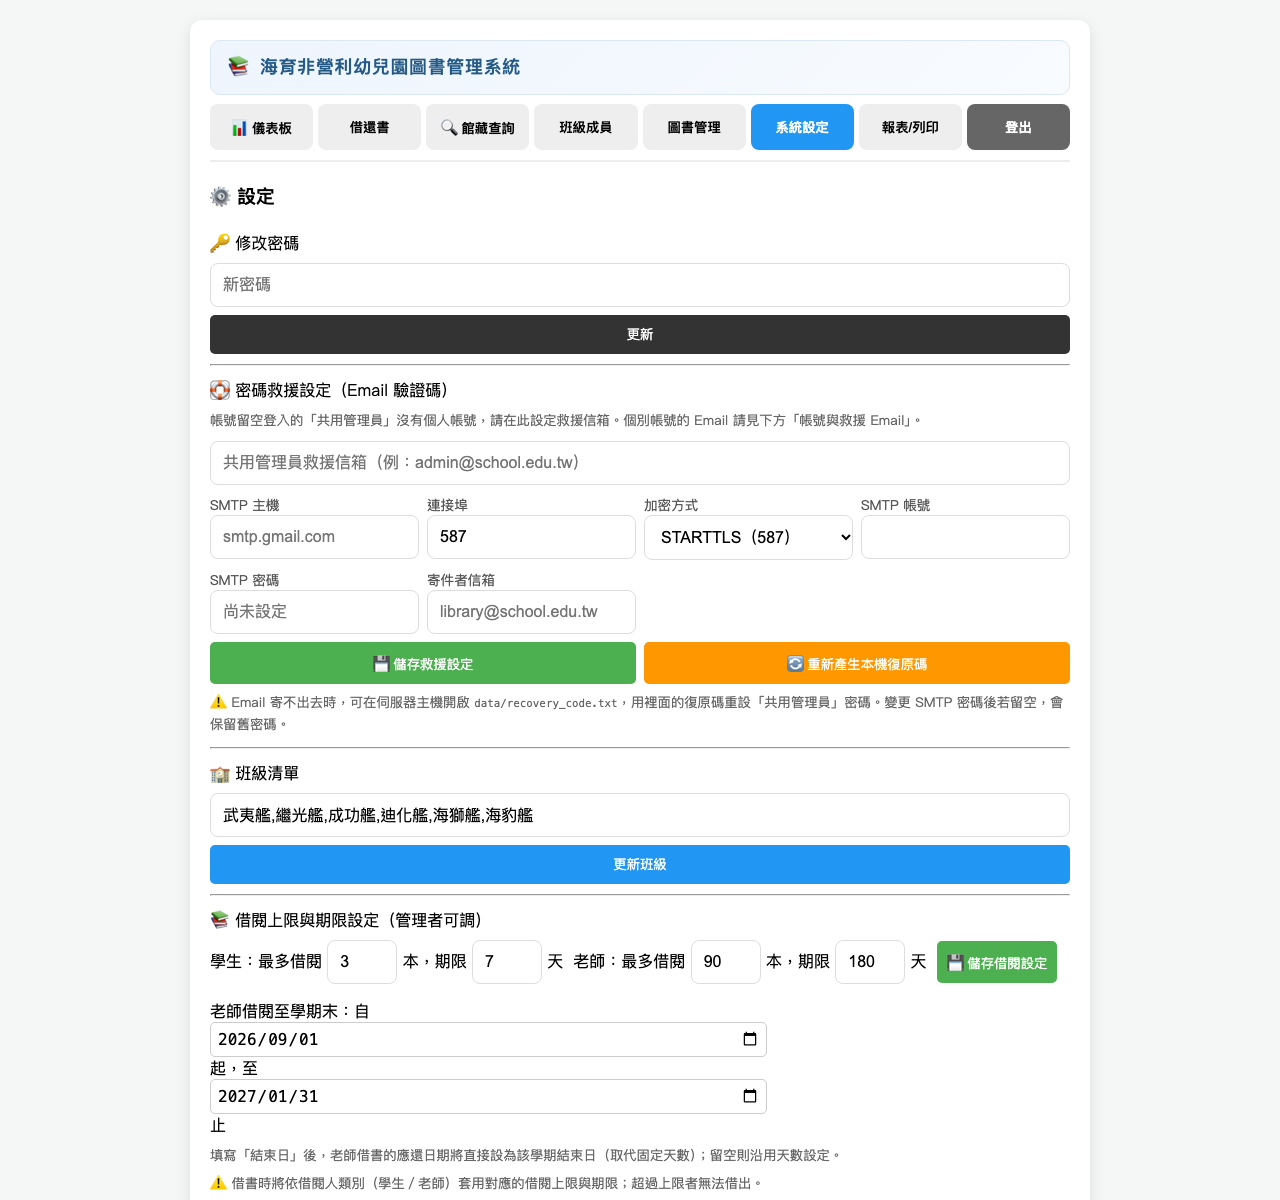
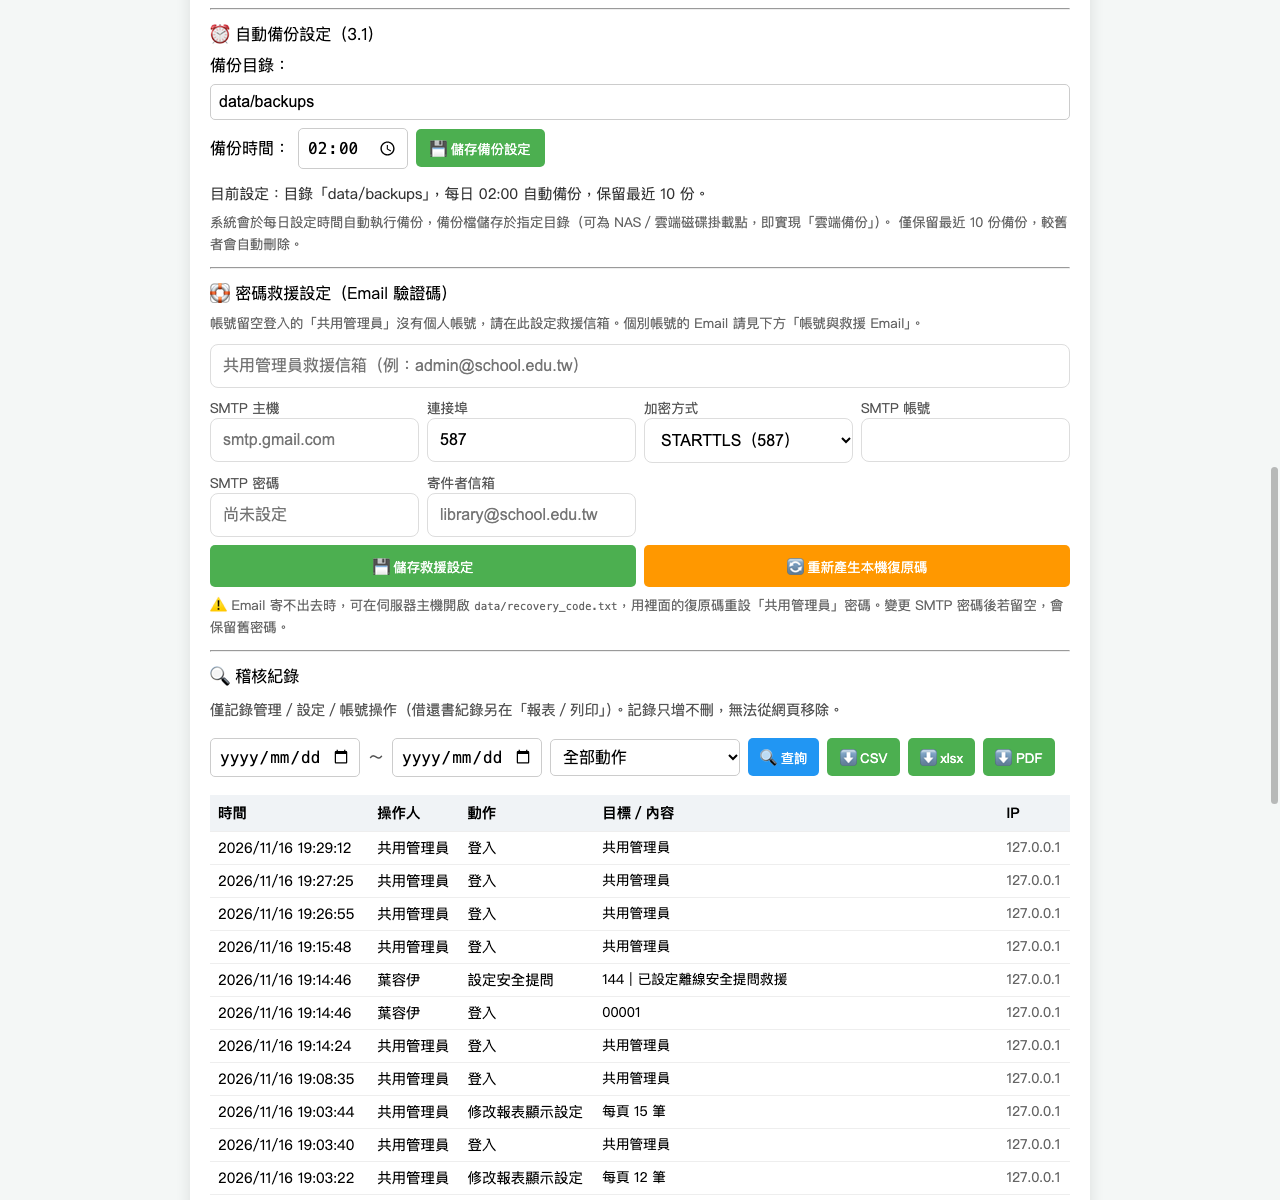
docs: 更新操作手冊系統設定總覽與密碼救援說明

diff --git a/docs/操作手冊.md b/docs/操作手冊.md
@@ -76,6 +76,11 @@
 
 若逾期數大於 0，建議到「報表/列印」頁面載入「逾期未還清單」進行追蹤。
 
+儀表板下方另有兩個帳號安全按鍵：
+
+- **🔑 修改密碼**：修改自己的登入密碼（個別帳號與共用管理員皆可使用）。
+- **🔒 安全提問**：設定或更換離線救援用的安全提問；視窗會顯示目前設定的題目。共用管理員沒有個人帳號，無法設定個人安全提問。
+
 ---
 
 ## 權限分級與多帳號管理 (1.1)
@@ -107,6 +112,24 @@ admin／root 角色與共用管理員不受勾選影響，一律全權限。
 ## 借閱期限、借閱數量上限與續借 (1.2)
 
 ![系統設定：班級清單、借閱上限、學期末起訖與報表每頁筆數](images/13-config.png)
+
+> 🔑 **修改密碼**與 🔒 **安全提問**已統一由「儀表板」下方的按鍵操作，系統設定頁不再重複提供。
+
+「系統設定」頁由上而下的區塊順序為：
+
+| 順序 | 區塊 | 用途 |
+|------|------|------|
+| 1 | 🏫 班級清單 | 維護班級名稱（逗號分隔） |
+| 2 | 📚 借閱上限與期限設定 | 學生／老師借閱本數、天數、老師借閱至學期末 |
+| 3 | 📄 報表每頁筆數 | 螢幕查詢每頁筆數（5～200，預設 20） |
+| 4 | 🏷 主題分類與索書號 | 新增／編輯圖書分類 |
+| 5 | 🔄 系統更新 | 檢查更新、一鍵更新並重啟 |
+| 6 | 🗓 學年結算／歸檔 | 每學期末歸檔借閱紀錄 |
+| 7 | 📥 批次匯入 | 圖書與名單批次匯入 |
+| 8 | 💾 資料備份與匯出 | 手動備份、匯出備份檔 |
+| 9 | ⏰ 自動備份設定 | 每日自動備份的目錄與時間 |
+| 10 | 🛟 密碼救援設定 | 共用管理員救援信箱、SMTP、本機復原碼 |
+| 11 | 🔍 稽核紀錄 | 查詢／匯出所有管理操作 |
 
 「系統設定 → 系統更新」提供「🔍 檢查更新」與「⬇ 一鍵更新並重啟」：系統每日自動檢查 GitHub 是否有新版本，若有更新會在儀表板顯示通知橫幅，管理員可自行決定是否更新（更新會 git pull 並重啟伺服器，期間約 5～10 秒）。
 
@@ -176,7 +199,7 @@ admin／root 角色與共用管理員不受勾選影響，一律全權限。
 
 ## 安全性：資料庫、備份、密碼自救機制 (3)
 
-![系統設定頁面](images/06-config.png)
+![系統設定：自動備份、密碼救援與稽核紀錄](images/06-config.png)
 
 ### 3.1 系統資料庫架構要求
 
@@ -203,14 +226,26 @@ admin／root 角色與共用管理員不受勾選影響，一律全權限。
 
 系統須內建免網路連線之密碼重置功能，避免密碼遺失導致系統永久鎖死。
 
-#### 解法 1：離線安全提問
+#### 解法 1：Email 救援（SMTP 驗證碼）
+
+「系統設定 → 🛟 密碼救援設定（Email 驗證碼）」位於「🔍 稽核紀錄」正上方，可設定：
+
+- **共用管理員救援信箱**：帳號留空登入的「共用管理員」沒有個人帳號，救援信會寄到這個信箱。個別帳號的 Email 請於「班級成員 → 編輯帳號」設定。
+- **SMTP 主機／連接埠／加密方式**：例如 Gmail 為 `smtp.gmail.com`、`587`、STARTTLS。
+- **SMTP 帳號／密碼／寄件者信箱**：SMTP 密碼留空代表保留舊密碼不變更。
+
+設定後，忘記密碼時可於登入畫面點「🔑 忘記密碼？」，系統會寄出驗證碼；輸入驗證碼即可重設密碼。
+
+若 Email 寄不出去（例如網路或 SMTP 設定問題），可在伺服器主機開啟 `data/recovery_code.txt`，用裡面的復原碼重設「共用管理員」密碼；也可在設定頁點「🔄 重新產生本機復原碼」重新產生一組。
+
+#### 解法 2：離線安全提問
 
 系統初次設定時，強制管理員設定安全提問（例如「開園日期？」、「園長姓名？」）。  
 忘記密碼時，只需在登入畫面點擊「忘記密碼」並答對設定的問題，即可直接在畫面上重設密碼。
 
 安全提問的設定與更新統一由「儀表板 → 🔒 安全提問」操作（modal 會顯示目前設定的問題，可直接更換）；共用管理員沒有個人帳號，無法設定個人安全提問，須以個人帳號登入後設定。
 
-#### 解法 2：雙軌制最高管理帳號
+#### 解法 3：雙軌制最高管理帳號
 
 系統不可僅有一組管理員帳號。必須建立「系統管理員（園長／行政）（日常用）」與「系統 Root（備用）」兩組最高權限帳號。配套措施：將「系統 Root」的帳號密碼寫在紙上，鎖在幼兒園的實體保險箱。當日常帳號忘記密碼被鎖死時，用備用帳號登入去幫日常帳號重設密碼。
 

diff --git a/docs/修訂紀錄.md b/docs/修訂紀錄.md
@@ -562,3 +562,9 @@
 
 ### 密碼救援設定移至稽核紀錄前（2026/11/16）
 - 「系統設定 → 🛟 密碼救援設定（Email 驗證碼）」由頁面最上方移至「🔍 稽核紀錄」正上方，方便與稽核紀錄一起維護設定。
+
+### 操作手冊更新：系統設定總覽與密碼救援（2026/11/16）
+- 新增「系統設定」11 個區塊的順序總覽表，並註明修改密碼與安全提問已改由儀表板操作。
+- 儀表板章節補充「🔑 修改密碼」「🔒 安全提問」按鍵說明。
+- 3.3 密碼自救機制新增「解法 1：Email 救援（SMTP 驗證碼）」，說明救援信箱、SMTP 設定與 `data/recovery_code.txt` 本機復原碼。
+- 更新系統設定頁截圖 `images/06-config.png`，呈現自動備份、密碼救援與稽核紀錄的目前位置。
